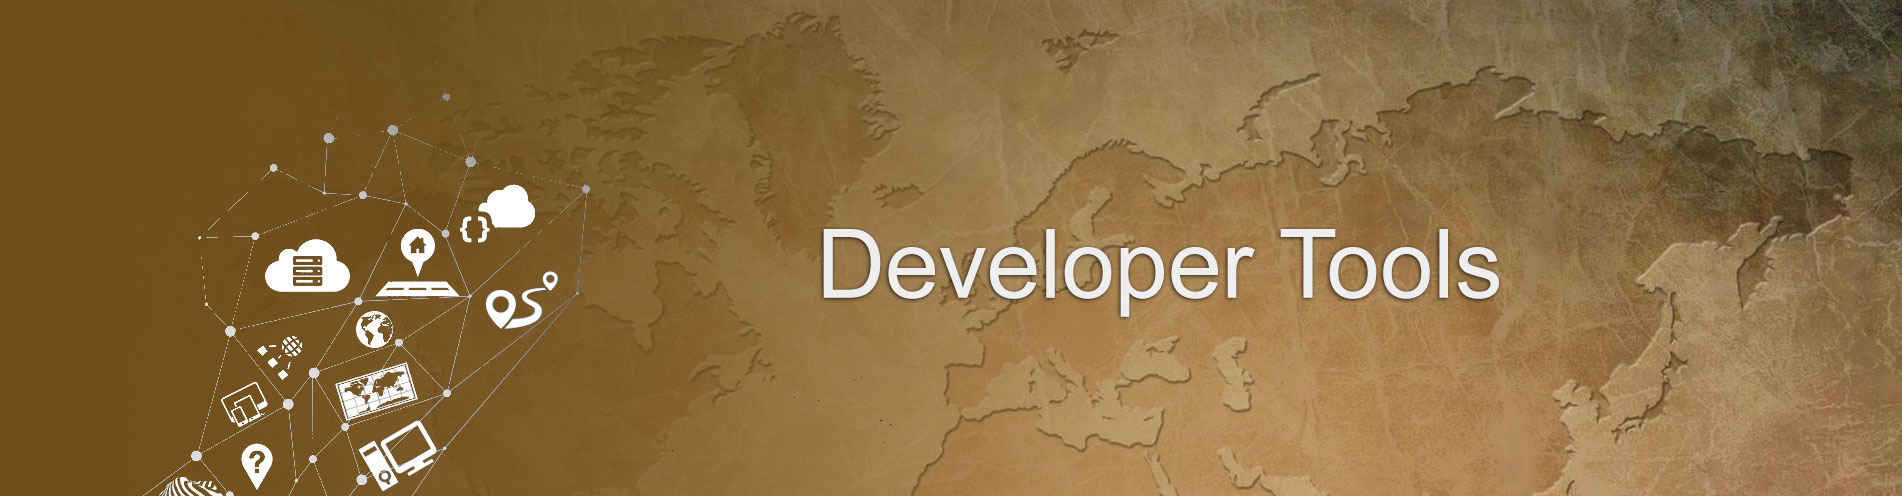
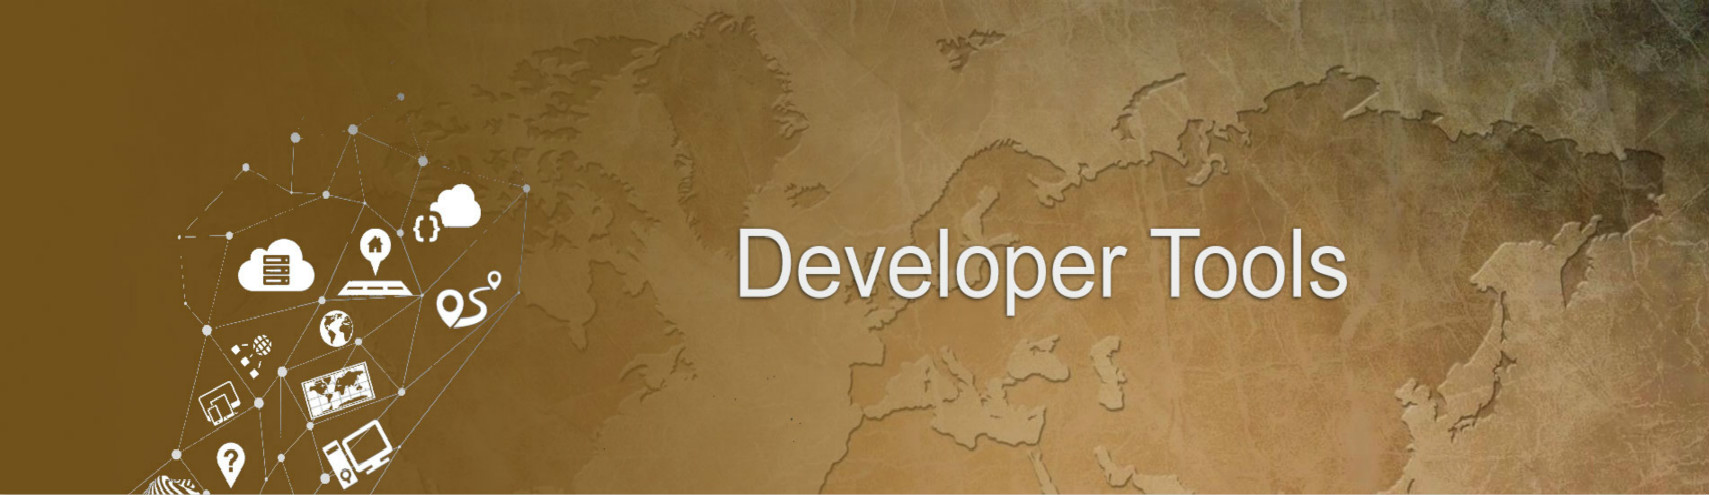
#finish carousel pictures.

diff --git a/Training/page/index.html b/Training/page/index.html
@@ -51,16 +51,19 @@
           <div id="slideDiv">
             <!-- Wrapper for slides -->
             <div id="slides">
-              <img src="../img/Index/head1.jpg" class="slideImgs active" />
-              <!--<img src="../img/Index/head2.jpg" class="slideImgs" />
-                        <img src="../img/Index/head3.jpg" class="slideImgs" />
-                        <img src="../img/Index/head4.jpg" class="slideImgs" />
-                        <img src="../img/Index/head5.jpg" class="slideImgs" />
-                        <img src="../img/Index/head6.jpg" class="slideImgs" />-->
+              <img  src="../img/Index/head1.jpg" class="slideImgs active" />
+              <img  src="../img/Index/head2.jpg" class="slideImgs" />
+              <img  src="../img/Index/head3.jpg" class="slideImgs" />
+              <img  src="../img/Index/head4.jpg" class="slideImgs" />
+              <img  src="../img/Index/head5.jpg" class="slideImgs" />
+              <img  src="../img/Index/head6.jpg" class="slideImgs" />
             </div>
             <!-- slides indicators -->
             <div id="pages">
-              <div value="1" class="page active">
+              <div value="0" class="page active">
+                <span class=""></span>
+              </div>
+              <div value="1" class="page">
                 <span class=""></span>
               </div>
               <div value="2" class="page">
@@ -73,9 +76,6 @@
                 <span class=""></span>
               </div>
               <div value="5" class="page">
-                <span class=""></span>
-              </div>
-              <div value="6" class="page">
                 <span class=""></span>
               </div>
             </div>

diff --git a/Training/js/Index/index.js b/Training/js/Index/index.js
@@ -1,15 +1,25 @@
 window.onload = function () {
+    var $nowIndex = 0;
+    var $nextIndex = 0;
 
-    //#change img by change img's src
+    //# click to change img 
     $("#pages .page").click(function () {
-        var chooseId = $(this).attr("value");
-        $(this).siblings().removeClass("active");
-        $(this).addClass("active");
-        $("#slides img").attr("src", '../img/Index/head' + chooseId + '.jpg');
+        var clickId = $(this).attr("value");
+
+        $(this).addClass("active").siblings().removeClass("active");
+        $("#slides").find("img").eq(clickId).addClass("active").siblings().removeClass("active");
+
     });
 
-    //# use a timer to switch the slide
+    //use a timer to switch the slide
+    var atime = setInterval(function () {
+        if ($("#pages div.active").attr("value") == $("#pages div").last().attr("value")) {
+            $("#pages div").first().click();
+        } else {
+            $("#pages div.active").next().click();
+        }
+    }, 2000);
 
-    //#change img by fadein fadeout
+    //# change img by animate
 
 }

diff --git a/Training/css/Index/index.css b/Training/css/Index/index.css
@@ -11,13 +11,14 @@
       /*Let the pictures can overlap*/
       #slides img {
       position: absolute;
-      z-index: -1;
+      z-index:-1;
+      width:100%;
       }
 
       /*current img style*/
       #slides img.active {
       position: absolute;
-      z-index: 1;
+      z-index:1;
       }
 
       /*pages*/
@@ -40,7 +41,6 @@
       width: 12px;
       height: 12px;
       margin: 5px 7px;
-
       /**/
       filter: Alpha(Opacity=50);
       opacity: .2;
